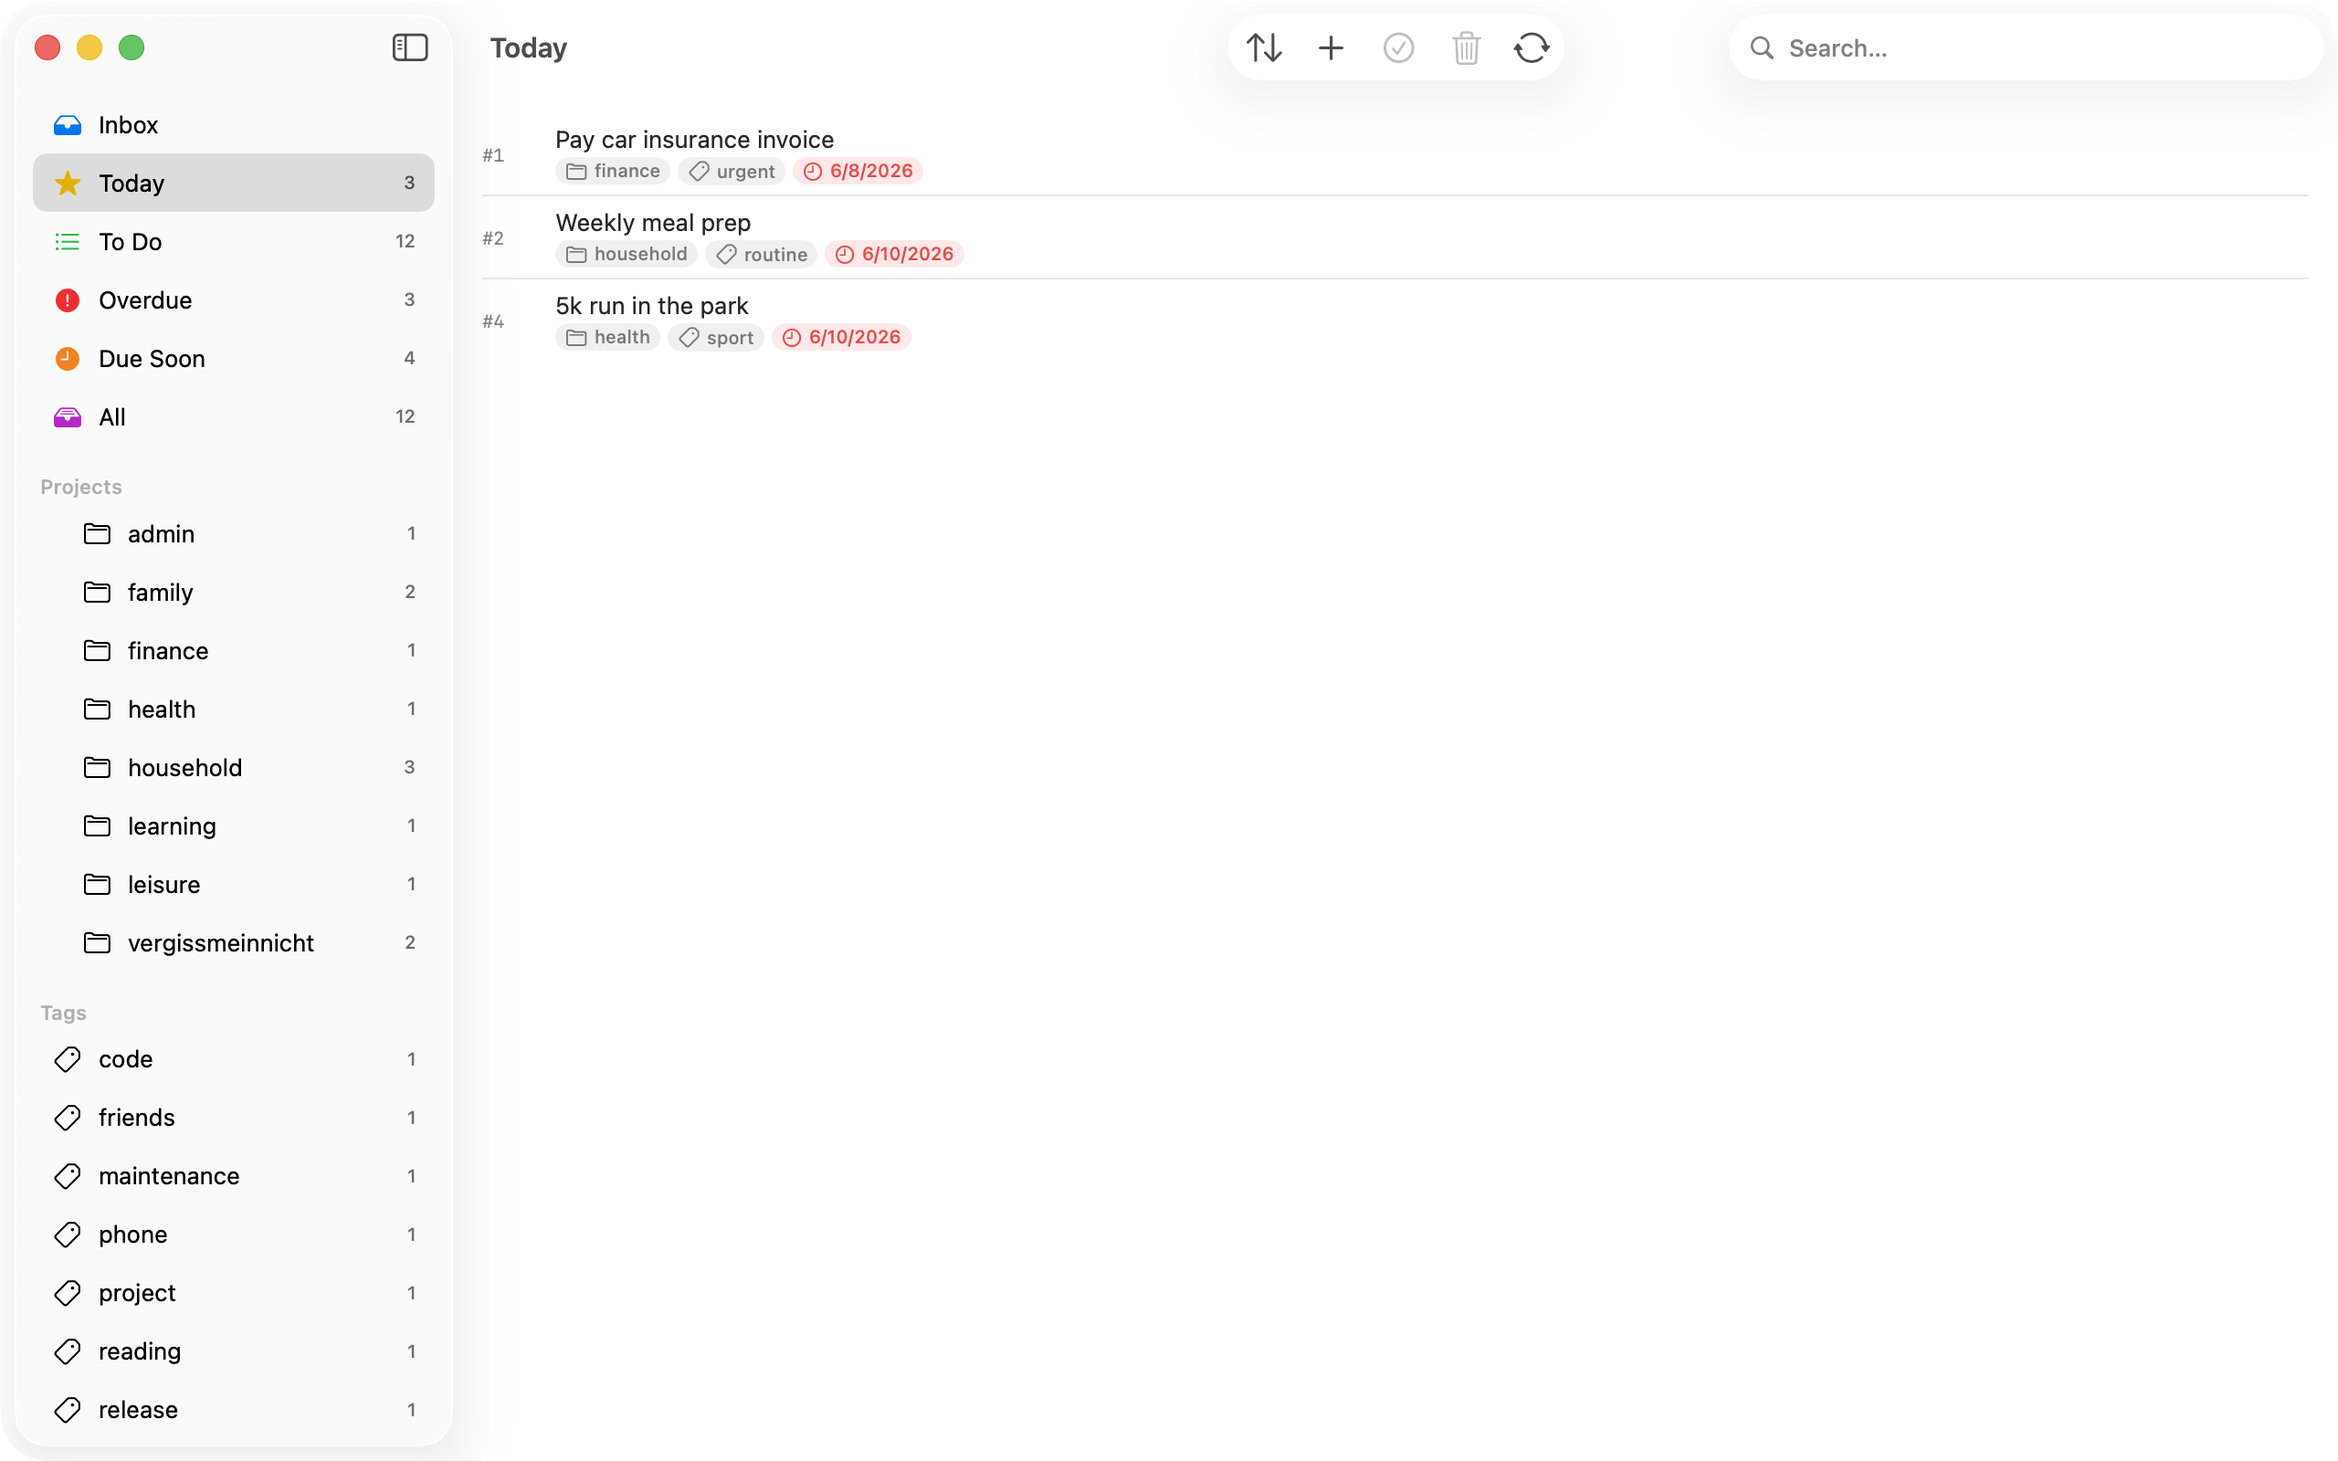
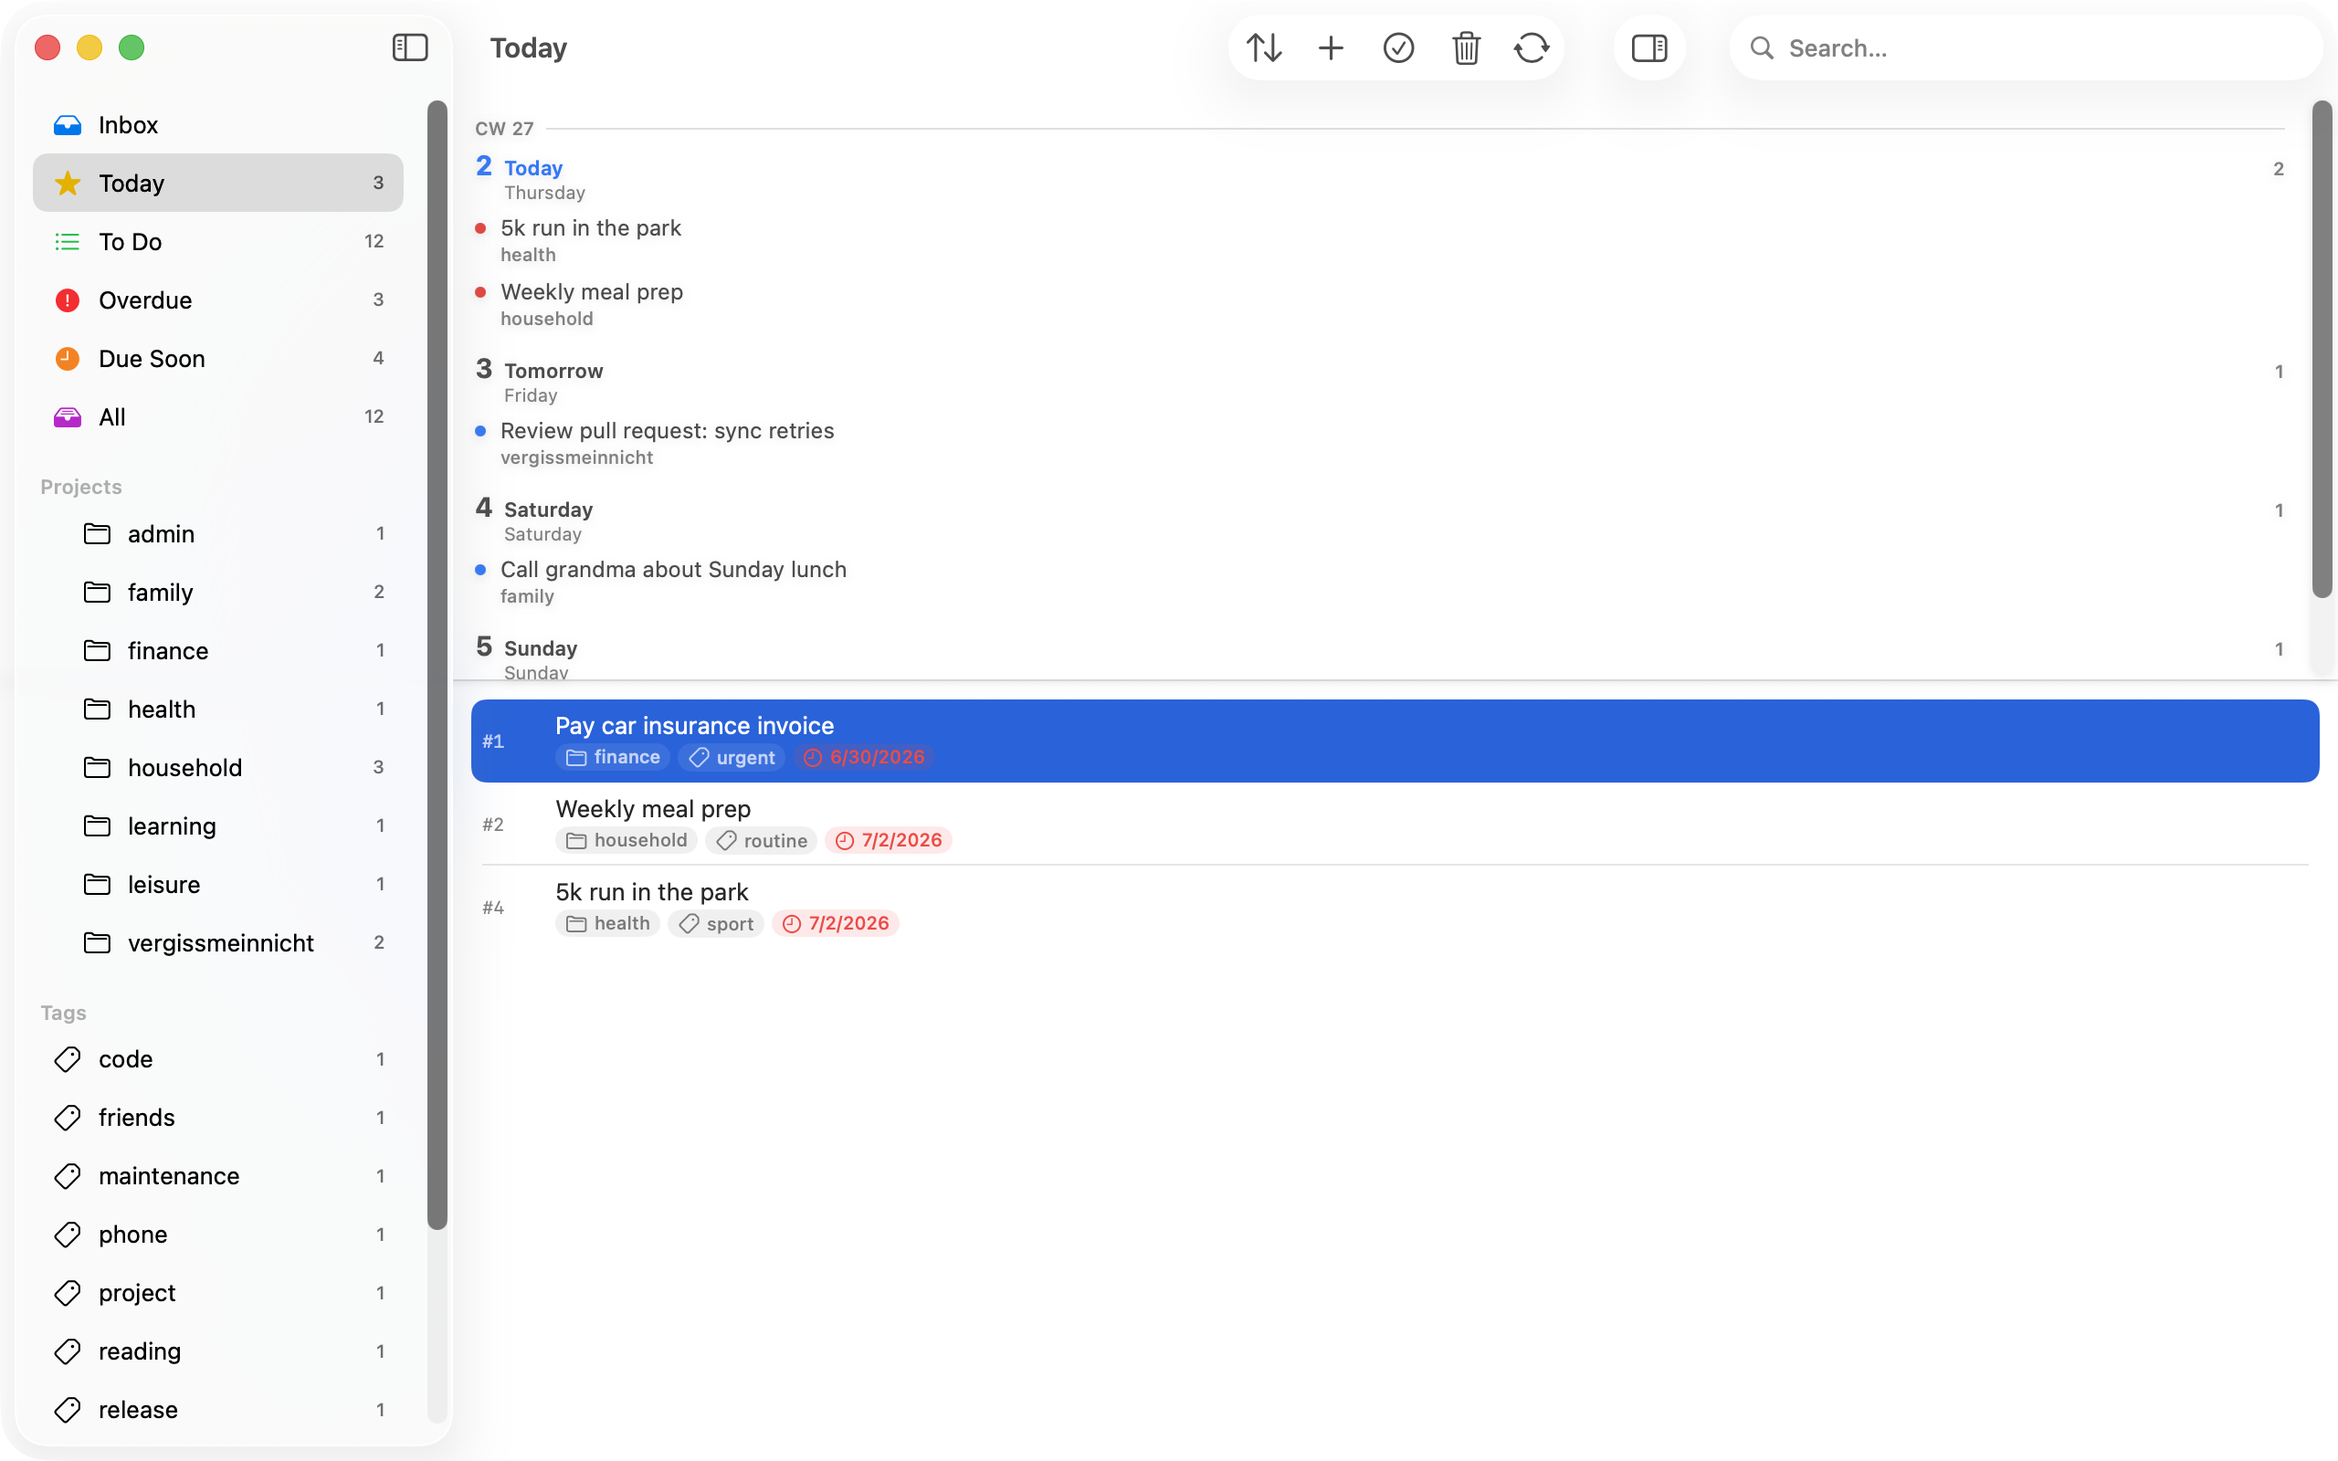
App: detail column polish — wider default, readable multi-selection (#33)
Follow-up on user feedback for the unreleased detail column:

- Wider default: inspectorColumnWidth min 340 / ideal 480 / max 700
  (was 320/400/600) — the reading pane was too narrow.
- Multi-selection pane now lists ALL selected tasks in a scrollable
  list with full wrapping titles, working-set id, project, and due
  date (red when overdue), instead of a six-title truncated preview;
  the bulk actions sit in a pinned footer. The orphaned "+ %lld
  weitere" catalog key is removed.
- The ⌥⌘0 shortcut is listed in the shortcut help sheet (⌘?).
- Fix: with the column closed and a task selected, the embedded
  DetailView's toolbar items (done/save) leaked into the window
  toolbar because the inspector content stayed mounted; the content
  is now only rendered while the column is visible.
- README (EN/DE) gains a detail-column screenshot; main.png refreshed
  (both from the seeded demo dataset). CLAUDE.md gains a
  "Definition of Done — user-facing changes" section: shortcuts must
  land in ShortcutHelpView, README/changelog updated, and screenshots
  refreshed in the same change.

148 app tests green; verified in the running app (both column states,
toolbar, multi-selection rendering).

diff --git a/app/Vergissmeinnicht/Sources/VergissmeinnichtApp/TaskInspectorView.swift b/app/Vergissmeinnicht/Sources/VergissmeinnichtApp/TaskInspectorView.swift
@@ -19,10 +19,6 @@ struct TaskInspectorView: View {
     let onMarkDoneSelection: () -> Void
     let onRequestDelete: (Set<String>) -> Void
 
-    /// Titel-Vorschau der Mehrfachauswahl: mehr Zeilen helfen nicht beim
-    /// Wiedererkennen, sie verschieben nur die Aktionen aus dem Blickfeld.
-    private static let maxPreviewTitles = 6
-
     var body: some View {
         if selectedUuids.isEmpty {
             ContentUnavailableView(
@@ -53,31 +49,34 @@ struct TaskInspectorView: View {
 
     // MARK: - Mehrfachauswahl
 
+    /// Kopf + scrollbare Liste ALLER selektierten Aufgaben + fixer Aktions-Footer.
+    /// Anders als die frühere gekappte Vorschau (6 Titel, `lineLimit(1)`) soll der
+    /// User die vollständige Auswahl lesen können, daher kein Kappen und kein
+    /// Zeilenlimit auf dem Titel.
     @ViewBuilder
     private var multiSelectionSummary: some View {
         let tasks = selectedTasks
-        VStack(spacing: 16) {
-            Spacer()
-            Image(systemName: "square.stack.3d.up.fill")
-                .font(.system(size: 40))
-                .foregroundStyle(.secondary)
-            Text("\(tasks.count) Aufgaben ausgewählt")
-                .font(.title3.bold())
-
-            VStack(alignment: .leading, spacing: 4) {
-                ForEach(tasks.prefix(Self.maxPreviewTitles), id: \.uuid) { task in
-                    Text(task.description)
-                        .font(.callout)
-                        .foregroundStyle(.secondary)
-                        .lineLimit(1)
-                }
-                if tasks.count > Self.maxPreviewTitles {
-                    Text("+ \(tasks.count - Self.maxPreviewTitles) weitere")
-                        .font(.callout.italic())
-                        .foregroundStyle(.tertiary)
-                }
+        VStack(spacing: 0) {
+            VStack(spacing: 6) {
+                Image(systemName: "square.stack.3d.up.fill")
+                    .font(.system(size: 28))
+                    .foregroundStyle(.secondary)
+                Text("\(tasks.count) Aufgaben ausgewählt")
+                    .font(.headline)
             }
-            .frame(maxWidth: 320, alignment: .leading)
+            .padding(.top, 20)
+            .padding(.bottom, 12)
+
+            ScrollView {
+                LazyVStack(spacing: 8) {
+                    ForEach(tasks, id: \.uuid) { task in
+                        multiSelectionRow(task)
+                    }
+                }
+                .padding(.horizontal, 16)
+            }
+
+            Divider()
 
             HStack(spacing: 12) {
                 Button {
@@ -90,10 +89,55 @@ struct TaskInspectorView: View {
                 } label: {
                     Label("Löschen", systemImage: "trash")
                 }
+                Spacer()
             }
-            Spacer()
+            .padding(16)
         }
-        .padding(20)
         .frame(maxWidth: .infinity, maxHeight: .infinity)
+    }
+
+    /// Einzelne Zeile der Mehrfachauswahl-Liste: Working-Set-ID, voll umbrechender
+    /// Titel, Meta-Zeile mit Projekt/Fälligkeit (überfällig rot). Hintergrund-Karte
+    /// statt Divider — analog der Sektionen in `DetailView`.
+    @ViewBuilder
+    private func multiSelectionRow(_ task: TaskInfo) -> some View {
+        VStack(alignment: .leading, spacing: 4) {
+            HStack(alignment: .firstTextBaseline, spacing: 6) {
+                if let workingSetId = task.workingSetId {
+                    Text("#\(workingSetId)")
+                        .font(.caption.monospacedDigit())
+                        .foregroundStyle(.secondary)
+                }
+                Text(task.description)
+                    .font(.callout)
+                    .fixedSize(horizontal: false, vertical: true)
+            }
+            if task.project != nil || task.due != nil {
+                HStack(spacing: 8) {
+                    if let project = task.project {
+                        Text(project)
+                            .font(.caption)
+                            .foregroundStyle(.secondary)
+                    }
+                    if let due = task.due {
+                        Text(formatDue(due))
+                            .font(.caption)
+                            .foregroundStyle(isOverdue(due) ? .red : .secondary)
+                    }
+                }
+            }
+        }
+        .padding(10)
+        .frame(maxWidth: .infinity, alignment: .leading)
+        .background(Color.secondary.opacity(0.06), in: RoundedRectangle(cornerRadius: 8))
+    }
+
+    private func formatDue(_ unixSeconds: Int64) -> String {
+        let date = Date(timeIntervalSince1970: TimeInterval(unixSeconds))
+        return date.formatted(Date.FormatStyle(date: .abbreviated, time: .shortened, locale: AppLanguage.currentFormattingLocale))
+    }
+
+    private func isOverdue(_ unixSeconds: Int64) -> Bool {
+        Date(timeIntervalSince1970: TimeInterval(unixSeconds)) < .now
     }
 }

diff --git a/app/Vergissmeinnicht/Sources/VergissmeinnichtApp/RootView.swift b/app/Vergissmeinnicht/Sources/VergissmeinnichtApp/RootView.swift
@@ -139,12 +139,18 @@ struct RootView: View {
                 // Listen-Selektion). Doppelklick öffnet weiterhin das eigenständige
                 // Detail-Fenster — die Spalte ist ein zusätzlicher Zugang, kein Ersatz.
                 .inspector(isPresented: $showDetailColumn) {
-                    TaskInspectorView(
-                        selectedUuids: viewModel.selectedUuids,
-                        onMarkDoneSelection: handleMarkDoneSelection,
-                        onRequestDelete: { requestDelete(uuids: $0) }
-                    )
-                    .inspectorColumnWidth(min: 320, ideal: 400, max: 600)
+                    // Inhalt nur bei sichtbarer Spalte mounten: SwiftUI hält den
+                    // Inspector-Inhalt sonst auch geschlossen am Leben, und die
+                    // Toolbar-Items der eingebetteten DetailView (Erledigt/Speichern)
+                    // würden bei aktiver Selektion in die Fenster-Toolbar leaken.
+                    if showDetailColumn {
+                        TaskInspectorView(
+                            selectedUuids: viewModel.selectedUuids,
+                            onMarkDoneSelection: handleMarkDoneSelection,
+                            onRequestDelete: { requestDelete(uuids: $0) }
+                        )
+                        .inspectorColumnWidth(min: 340, ideal: 480, max: 700)
+                    }
                 }
             }
         }

diff --git a/app/Vergissmeinnicht/Sources/VergissmeinnichtApp/AboutView.swift b/app/Vergissmeinnicht/Sources/VergissmeinnichtApp/AboutView.swift
@@ -60,6 +60,7 @@ struct ShortcutHelpView: View {
                 Entry(label: "Aktualisieren",          keys: "⌘R"),
                 Entry(label: "Synchronisieren",        keys: "⇧⌘S"),
                 Entry(label: "Erledigte ausblenden",   keys: "⇧⌘H"),
+                Entry(label: "Detailspalte anzeigen",  keys: "⌥⌘0"),
             ]),
             Section(title: "Detail-Editor", entries: [
                 Entry(label: "Speichern",              keys: "⌘S"),

diff --git a/CLAUDE.md b/CLAUDE.md
@@ -65,6 +65,14 @@ The **GitHub Issues** of this repo (`hnsstrk/vergissmeinnicht`) are the single s
 - **Release notes are generated from the changelog, never hand-written per release.** `.github/workflows/release.yml` extracts the matching `## [<version>]` section from `CHANGELOG.md` and uses it as the GitHub Release body, appending the install/quarantine footer from `.github/release-footer.md` (with `__TAG__` substituted for the tag). Do **not** reintroduce a hard-coded release body — that produced identical notes for every release.
 - **Release flow:** bump `MARKETING_VERSION` (two places in `project.pbxproj`) → update `CHANGELOG.md` → push `main`, wait for CI green → push an annotated tag `vX.Y.Z` (triggers `release.yml`) → watch the release run to green. Tags are `v`-prefixed (e.g. `v0.2.4`).
 
+### Definition of Done — user-facing changes
+
+A change that alters user-visible behavior is only done when, **in the same commit/PR**:
+
+1. **Keyboard shortcuts:** every new or changed shortcut is also added to `ShortcutHelpView` (`AboutView.swift`) — the help sheet (⌘?) is the user-facing reference and must never lag behind the actual bindings.
+2. **README + Changelog:** the feature lists in `README.md` and `README.de.md` and the `## [Unreleased]` section of `CHANGELOG.md` are updated alongside the code. Do not defer this to "later" — deferred entries get lost.
+3. **Screenshots:** when the main window changes visibly (new column, toolbar/sidebar structure, layout), refresh the affected images under `docs/screenshots/` using the seeded demo dataset (`seed_demo` example, English UI) — never screenshots of real user data.
+
 ### xcodeproj — new Swift files
 New `.swift` files in the app target **must** be registered four times in `app/Vergissmeinnicht/Vergissmeinnicht.xcodeproj/project.pbxproj`: `PBXBuildFile`, `PBXFileReference`, `PBXGroup`, `PBXSourcesBuildPhase`. Same for `Assets.xcassets` & `Localizable.xcstrings` — see the v0.1.1 icon hotfix in the journal as a cautionary tale.
 

diff --git a/CHANGELOG.md b/CHANGELOG.md
@@ -11,11 +11,12 @@ Releases before 0.2.4 are recorded only as Git tags and GitHub Releases.
 ### Added
 - Mail-style detail column (#33): an optional third column to the right of the
   task list shows the selected task inline — same editor as the detail window.
-  Toggle it via the toolbar button, *View ▸ Show Detail Column*, or ⌥⌘0; the
-  state persists across launches. With no selection the column shows a hint,
-  with multiple tasks selected it shows a summary with bulk actions (mark done,
-  delete). Double-click still opens the separate detail window; the two-column
-  layout remains the default.
+  Toggle it via the toolbar button, *View ▸ Show Detail Column*, or ⌥⌘0 (also
+  listed in the shortcut help, ⌘?); the state persists across launches. With no
+  selection the column shows a hint; with multiple tasks selected it lists all
+  selected tasks with full titles, project, and due date, plus bulk actions
+  (mark done, delete). Double-click still opens the separate detail window;
+  the two-column layout remains the default.
 
 ## [0.2.6] - 2026-06-12
 

diff --git a/README.de.md b/README.de.md
@@ -42,9 +42,12 @@ SwiftUI-Frontend, Rust-Core via UniFFI, sandboxed, App-Store-tauglich.
   Geplant ab, Priorität, Wiederholung, Notizen (mit Markdown-Rendering).
 - **Detailspalte** (⌥⌘0, *Ansicht ▸ Detailspalte anzeigen*) — optionale
   Lesespalte im Mail-Stil rechts der Aufgabenliste, die die selektierte Aufgabe
-  inline zeigt (derselbe Editor wie im Fenster). Bei Mehrfachauswahl erscheint
-  eine Zusammenfassung mit Bulk-Aktionen; Doppelklick öffnet weiterhin das
-  separate Fenster.
+  inline zeigt (derselbe Editor wie im Fenster). Bei Mehrfachauswahl werden
+  alle selektierten Aufgaben mit vollem Titel, Projekt und Fälligkeit
+  aufgelistet, dazu Bulk-Aktionen; Doppelklick öffnet weiterhin das separate
+  Fenster.
+
+  ![Vergissmeinnicht — Detailspalte](docs/screenshots/detail-column.png)
 - **Multi-Selection** mit Bulk-Erledigt / Löschen / Projekt / Tag / Priorität /
   Fälligkeit über Kontextmenü, mit nativem `contextMenu(forSelectionType:)`.
 - **Drag & Drop** Tasks auf Projekte, Tags oder Eingang (löscht Projekt + Tags).

diff --git a/README.md b/README.md
@@ -42,8 +42,11 @@ front-end, Rust core via UniFFI, sandboxed, App-Store-friendly.
   priority, recurrence, annotations (with Markdown rendering).
 - **Detail column** (⌥⌘0, *View ▸ Show Detail Column*) — optional Mail-style
   reading pane to the right of the task list showing the selected task inline
-  (same editor as the window). With multiple tasks selected it shows a summary
-  with bulk actions; double-click still opens the separate window.
+  (same editor as the window). With multiple tasks selected it lists all
+  selected tasks with full titles, project, and due date, plus bulk actions;
+  double-click still opens the separate window.
+
+  ![Vergissmeinnicht — detail column](docs/screenshots/detail-column.png)
 - **Multi-select** with bulk done / delete / project / tag / priority / due
   via context menu, native `contextMenu(forSelectionType:)`.
 - **Drag & drop** tasks onto projects, tags, or Inbox (clears project + tags).
